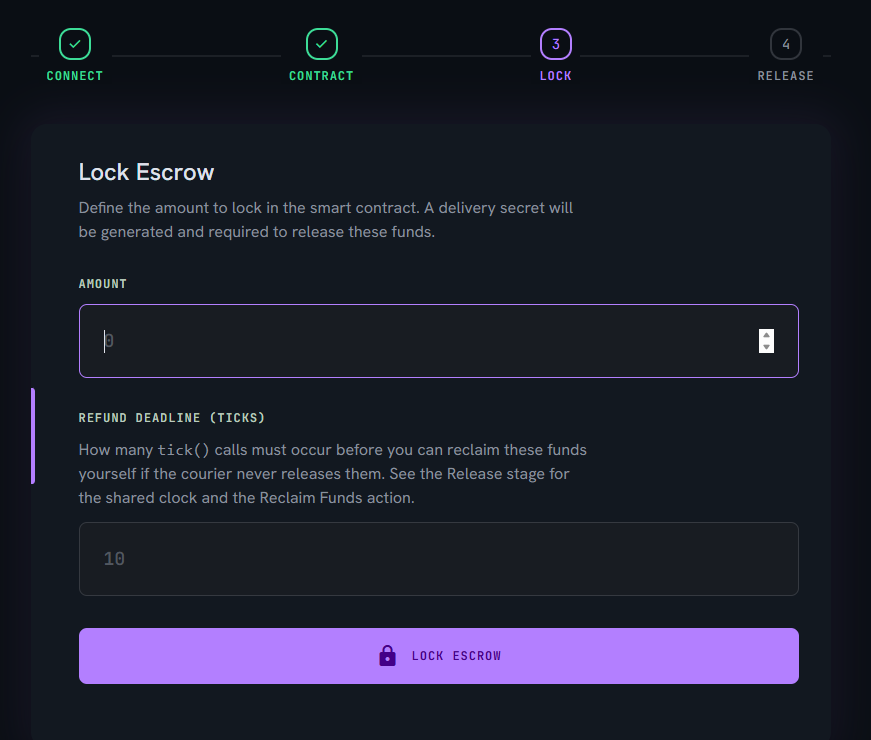
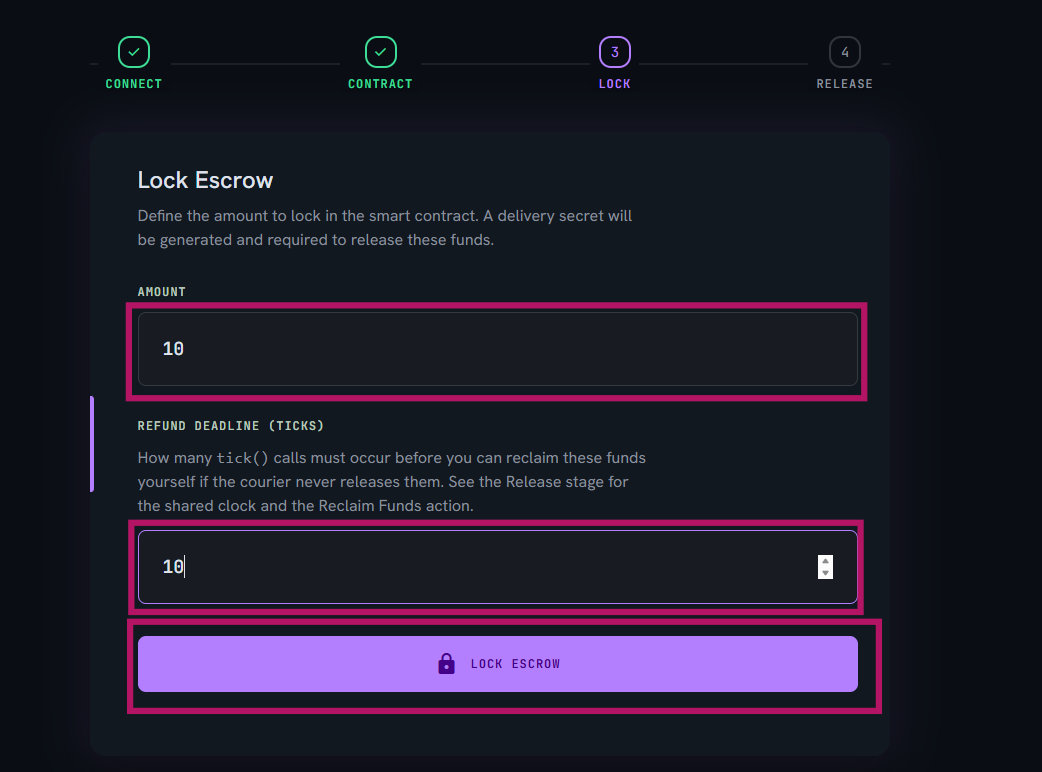
feat(web): expand onboarding modal to a wider 2-column, non-scrolling layout
Widens the onboarding modal (max-w-2xl -> max-w-5xl) and restructures each
slide as image-left/instructions-right so content fits without the page
itself scrolling — only the text column scrolls internally when a slide's
content exceeds the available height. Required making the full ancestor
chain (modal -> wrapper -> slide) consistently flex-based so height
resolves correctly; the prior h-full/percentage approach silently failed
to constrain slide height against its flex-item parent.

Also swaps in sharper screenshots for the Contract/Lock/Locked-success
slides and adds the remaining step sub-images (Lace authorize/account/
password screens, sign-transaction confirmations, released-success, and
the feedback-form preview) captured during this session's testing.

Claude-Session: https://claude.ai/code/session_0192wX45Bb8kV5ga5xYZdELV

diff --git a/web/index.html b/web/index.html
@@ -116,8 +116,8 @@
     <!-- Onboarding Modal (first-visit guide) -->
     <div id="onboarding-modal" class="hidden fixed inset-0 z-[110] items-center justify-center p-4">
       <div id="onboarding-backdrop" class="absolute inset-0 bg-black/70 backdrop-blur-sm"></div>
-      <div class="relative bg-surface-elevated rounded-2xl stage-shadow w-full max-w-2xl max-h-[90vh] flex flex-col overflow-hidden border border-surface-container">
-        <div class="flex items-center justify-between px-6 py-5 border-b border-surface-container">
+      <div class="relative bg-surface-elevated rounded-2xl stage-shadow w-full max-w-5xl max-h-[90vh] flex flex-col overflow-hidden border border-surface-container">
+        <div class="flex items-center justify-between px-6 py-5 border-b border-surface-container shrink-0">
           <div class="flex items-center gap-3">
             <span class="material-symbols-outlined text-primary" data-weight="fill">shield_locked</span>
             <h2 class="font-headline-md text-headline-md text-on-surface">How BlindRoute Works</h2>
@@ -127,58 +127,118 @@
           </button>
         </div>
 
-        <div class="flex-1 overflow-y-auto">
+        <div class="flex-1 min-h-0 overflow-hidden flex flex-col">
           <!-- Slide 1: Connect -->
-          <div class="onboarding-slide" data-slide="0">
-            <img src="/onboarding/01-connect.png" alt="Connect wallet screen" class="w-full border-b border-surface-container" />
-            <div class="p-6">
+          <div class="onboarding-slide min-h-0 flex-1 flex flex-col md:flex-row" data-slide="0">
+            <div class="bg-surface-container-lowest flex items-center justify-center p-6 border-b md:border-b-0 md:border-r border-surface-container overflow-hidden min-h-0 md:w-1/2 shrink-0">
+              <img src="/onboarding/01-connect.png" alt="BlindRoute Connect Wallet screen" class="max-w-full max-h-full w-auto h-auto object-contain rounded-lg" />
+            </div>
+            <div class="p-6 md:p-8 overflow-y-auto min-h-0 md:w-1/2">
               <span class="font-label-caps text-label-caps text-public-zone">STEP 1 OF 5</span>
               <h3 class="font-headline-md text-headline-md text-on-surface mt-2 mb-2">Connect Your Wallet</h3>
-              <p class="font-body-md text-body-md text-text-muted">Click <strong class="text-on-surface">Connect Wallet</strong> and approve the Lace popup. Make sure Lace is set to the <strong class="text-on-surface">Preview</strong> network with some test funds (tDUST) from the faucet first.</p>
+              <p class="font-body-md text-body-md text-text-muted mb-5">Click <strong class="text-on-surface">Connect Wallet</strong> on the BlindRoute page. Lace opens a popup — here's exactly what to expect and tap through:</p>
+
+              <div class="grid grid-cols-3 gap-3">
+                <div class="flex flex-col gap-1.5">
+                  <img src="/onboarding/01b-authorize-dapp.png" alt="Lace Authorize DApp screen showing BlindRoute's connection request" class="w-full rounded-lg border border-surface-container-highest" />
+                  <p class="font-label-caps text-label-caps text-on-surface-variant text-[10px] leading-tight">1. Lace asks you to authorize BlindRoute. Click <strong class="text-on-surface">Select Account</strong> first.</p>
+                </div>
+                <div class="flex flex-col gap-1.5">
+                  <img src="/onboarding/01c-select-account.png" alt="Lace account selector showing available Midnight accounts" class="w-full rounded-lg border border-surface-container-highest" />
+                  <p class="font-label-caps text-label-caps text-on-surface-variant text-[10px] leading-tight">2. Pick an account, then click <strong class="text-on-surface">Authorize</strong>.</p>
+                </div>
+                <div class="flex flex-col gap-1.5">
+                  <img src="/onboarding/01d-unlock-password.png" alt="Lace password unlock prompt" class="w-full rounded-lg border border-surface-container-highest" />
+                  <p class="font-label-caps text-label-caps text-on-surface-variant text-[10px] leading-tight">3. If locked, enter your password and click <strong class="text-on-surface">Confirm</strong>.</p>
+                </div>
+              </div>
+
+              <p class="font-body-md text-body-md text-text-muted mt-5">Before any of this: make sure Lace is set to the <strong class="text-on-surface">Preview</strong> network with some test funds (tDUST) from the <a href="https://faucet.preview.midnight.network/" target="_blank" rel="noopener" class="text-public-zone hover:opacity-80">Preview faucet</a>.</p>
             </div>
           </div>
           <!-- Slide 2: Contract -->
-          <div class="onboarding-slide hidden" data-slide="1">
-            <img src="/onboarding/03-contract.png" alt="Deploy or join contract screen" class="w-full border-b border-surface-container" />
-            <div class="p-6">
+          <div class="onboarding-slide hidden min-h-0 flex-1 flex flex-col md:flex-row" data-slide="1">
+            <div class="bg-surface-container-lowest flex items-center justify-center p-6 border-b md:border-b-0 md:border-r border-surface-container overflow-hidden min-h-0 md:w-1/2 shrink-0">
+              <img src="/onboarding/03-contract.png" alt="Deploy New Contract and Join Existing screen" class="max-w-full max-h-full w-auto h-auto object-contain rounded-lg" />
+            </div>
+            <div class="p-6 md:p-8 overflow-y-auto min-h-0 md:w-1/2">
               <span class="font-label-caps text-label-caps text-public-zone">STEP 2 OF 5</span>
               <h3 class="font-headline-md text-headline-md text-on-surface mt-2 mb-2">Deploy or Join a Contract</h3>
-              <p class="font-body-md text-body-md text-text-muted"><strong class="text-on-surface">Deploy New Contract</strong> starts a fresh escrow (you're the payer). Or <strong class="text-on-surface">Join Existing</strong> by pasting a contract address someone shared with you.</p>
+              <p class="font-body-md text-body-md text-text-muted mb-5">Click <strong class="text-on-surface">Initialize</strong> to start a fresh escrow (you're the payer) — or paste an existing contract address and click <strong class="text-on-surface">Verify &amp; Join</strong> to connect to someone else's escrow instead.</p>
+
+              <div class="flex flex-col gap-2 max-w-xs">
+                <img src="/onboarding/03b-sign-transaction.png" alt="Lace Prove transaction screen with Sign transaction highlighted" class="w-full rounded-lg border border-surface-container-highest" />
+                <p class="font-label-caps text-label-caps text-on-surface-variant text-[10px] leading-tight">Either action opens a Lace popup like this — review the transaction data, then click <strong class="text-on-surface">Sign transaction</strong>. (Same confirmation reappears for Lock, Release, and Reclaim.)</p>
+              </div>
             </div>
           </div>
           <!-- Slide 3: Lock -->
-          <div class="onboarding-slide hidden" data-slide="2">
-            <img src="/onboarding/04-lock.png" alt="Lock escrow screen" class="w-full border-b border-surface-container" />
-            <div class="p-6">
+          <div class="onboarding-slide hidden min-h-0 flex-1 flex flex-col md:flex-row" data-slide="2">
+            <div class="bg-surface-container-lowest flex items-center justify-center p-6 border-b md:border-b-0 md:border-r border-surface-container overflow-hidden min-h-0 md:w-1/2 shrink-0">
+              <img src="/onboarding/04-lock.png" alt="Lock Escrow form with amount and refund deadline fields" class="max-w-full max-h-full w-auto h-auto object-contain rounded-lg" />
+            </div>
+            <div class="p-6 md:p-8 overflow-y-auto min-h-0 md:w-1/2">
               <span class="font-label-caps text-label-caps text-private-zone">STEP 3 OF 5</span>
               <h3 class="font-headline-md text-headline-md text-on-surface mt-2 mb-2">Lock the Escrow</h3>
-              <p class="font-body-md text-body-md text-text-muted">As the payer, set an amount and a refund deadline (in ticks), then <strong class="text-on-surface">Lock Escrow</strong>. A delivery secret is generated locally in your browser — it's never sent anywhere, only a hash (commitment) of it goes on-chain.</p>
+              <p class="font-body-md text-body-md text-text-muted mb-5">As the payer, set an <strong class="text-on-surface">Amount</strong> and a <strong class="text-on-surface">Refund Deadline</strong> (in ticks), then click <strong class="text-on-surface">Lock Escrow</strong>.</p>
+
+              <div class="grid grid-cols-2 gap-3">
+                <div class="flex flex-col gap-1.5">
+                  <img src="/onboarding/04b-locking-progress.png" alt="Locking escrow — generating proof locally progress screen" class="w-full rounded-lg border border-surface-container-highest" />
+                  <p class="font-label-caps text-label-caps text-on-surface-variant text-[10px] leading-tight">1. A delivery secret is hashed <strong class="text-on-surface">locally in your browser</strong> — this can take a little while.</p>
+                </div>
+                <div class="flex flex-col gap-1.5">
+                  <img src="/onboarding/04c-lock-sign-transaction.png" alt="Lace Sign transaction screen for the lockEscrow entry point" class="w-full rounded-lg border border-surface-container-highest" />
+                  <p class="font-label-caps text-label-caps text-on-surface-variant text-[10px] leading-tight">2. Lace confirms — shows <strong class="text-on-surface">entry_point: lockEscrow</strong>. Click <strong class="text-on-surface">Sign transaction</strong>.</p>
+                </div>
+              </div>
+
+              <p class="font-body-md text-body-md text-text-muted mt-5">Only a <strong class="text-on-surface">hash</strong> of the delivery secret goes on-chain — the secret itself never leaves your browser.</p>
             </div>
           </div>
           <!-- Slide 4: Locked -->
-          <div class="onboarding-slide hidden" data-slide="3">
-            <img src="/onboarding/05-locked-success.png" alt="Escrow locked successfully screen" class="w-full border-b border-surface-container" />
-            <div class="p-6">
+          <div class="onboarding-slide hidden min-h-0 flex-1 flex flex-col md:flex-row" data-slide="3">
+            <div class="bg-surface-container-lowest flex items-center justify-center p-6 border-b md:border-b-0 md:border-r border-surface-container overflow-hidden min-h-0 md:w-1/2 shrink-0">
+              <img src="/onboarding/05-locked-success.png" alt="Escrow Locked Successfully screen with Advance Clock, Reclaim Funds, and Release Escrow buttons highlighted" class="max-w-full max-h-full w-auto h-auto object-contain rounded-lg" />
+            </div>
+            <div class="p-6 md:p-8 overflow-y-auto min-h-0 md:w-1/2">
               <span class="font-label-caps text-label-caps text-public-zone">STEP 4 OF 5</span>
               <h3 class="font-headline-md text-headline-md text-on-surface mt-2 mb-2">Escrow Locked</h3>
-              <p class="font-body-md text-body-md text-text-muted">Funds are now cryptographically secured. From here, the courier can <strong class="text-on-surface">Release</strong> it by proving they know the secret, or — once the refund deadline passes — the payer can <strong class="text-on-surface">Reclaim</strong> it themselves.</p>
+              <p class="font-body-md text-body-md text-text-muted mb-3">Funds are now cryptographically secured. Three actions become available:</p>
+
+              <ul class="flex flex-col gap-1.5 font-body-md text-body-md text-text-muted mb-5 text-[13px]">
+                <li>• <strong class="text-on-surface">Release Escrow (Courier)</strong> — proves the secret is known and claims the funds.</li>
+                <li>• <strong class="text-on-surface">Reclaim Funds (Payer)</strong> — usable after the refund deadline passes.</li>
+                <li>• <strong class="text-on-surface">Advance Clock</strong> — anyone can advance the shared tick counter.</li>
+              </ul>
+
+              <div class="flex flex-col gap-2 max-w-xs">
+                <img src="/onboarding/05b-release-sign-transaction.png" alt="Lace Sign transaction screen for the releaseEscrow entry point" class="w-full rounded-lg border border-surface-container-highest" />
+                <p class="font-label-caps text-label-caps text-on-surface-variant text-[10px] leading-tight">Clicking <strong class="text-on-surface">Release Escrow</strong> opens this confirmation — shows <strong class="text-on-surface">entry_point: releaseEscrow</strong>.</p>
+              </div>
             </div>
           </div>
-          <!-- Slide 5: Release (no screenshot yet — described) -->
-          <div class="onboarding-slide hidden" data-slide="4">
-            <div class="w-full aspect-video bg-surface-container-low border-b border-surface-container flex flex-col items-center justify-center gap-3 text-center px-8">
-              <span class="material-symbols-outlined text-[40px] text-private-zone" data-weight="fill">key</span>
-              <p class="font-crypto-code text-crypto-code text-text-muted">Verified without revealing the secret.</p>
+          <!-- Slide 5: Release -->
+          <div class="onboarding-slide hidden min-h-0 flex-1 flex flex-col md:flex-row" data-slide="4">
+            <div class="bg-surface-container-lowest flex items-center justify-center p-6 border-b md:border-b-0 md:border-r border-surface-container overflow-hidden min-h-0 md:w-1/2 shrink-0">
+              <img src="/onboarding/06-released-success.png" alt="Escrow Released Successfully screen showing public ledger state and private session cards" class="max-w-full max-h-full w-auto h-auto object-contain rounded-lg" />
             </div>
-            <div class="p-6">
+            <div class="p-6 md:p-8 overflow-y-auto min-h-0 md:w-1/2">
               <span class="font-label-caps text-label-caps text-private-zone">STEP 5 OF 5</span>
               <h3 class="font-headline-md text-headline-md text-on-surface mt-2 mb-2">Release (Courier) or Reclaim (Payer)</h3>
-              <p class="font-body-md text-body-md text-text-muted"><strong class="text-on-surface">Release</strong> proves — in zero knowledge, right in your browser — that the courier knows the secret. This step is slower than locking; that's expected. Ready to try it? Close this guide and connect your wallet.</p>
+              <p class="font-body-md text-body-md text-text-muted mb-5"><strong class="text-on-surface">Release</strong> proves — in zero knowledge, right in your browser — that the courier knows the secret. This step is slower than locking; that's expected. The status flips to <strong class="text-on-surface">RELEASED</strong> and the Public Ledger State card updates, while Private Session never reveals the secret.</p>
+
+              <div class="flex flex-col gap-2 max-w-xs mb-5">
+                <img src="/onboarding/06b-feedback-form.png" alt="BlindRoute Quick Feedback modal with the Google Form embedded" class="w-full rounded-lg border border-surface-container-highest" />
+                <p class="font-label-caps text-label-caps text-on-surface-variant text-[10px] leading-tight">Once you release (or reclaim), this <strong class="text-on-surface">Quick Feedback</strong> form pops up automatically — or click <strong class="text-on-surface">Feedback</strong> in the top bar anytime.</p>
+              </div>
+
+              <p class="font-body-md text-body-md text-text-muted">Ready to try it? Close this guide and connect your wallet.</p>
             </div>
           </div>
         </div>
 
-        <div class="px-6 py-4 border-t border-surface-container flex items-center justify-between gap-4">
+        <div class="px-6 py-4 border-t border-surface-container flex items-center justify-between gap-4 shrink-0">
           <div class="flex gap-1.5" id="onboarding-dots">
             <span class="onboarding-dot w-2 h-2 rounded-full bg-public-zone transition-colors" data-dot="0"></span>
             <span class="onboarding-dot w-2 h-2 rounded-full bg-surface-container-highest transition-colors" data-dot="1"></span>
